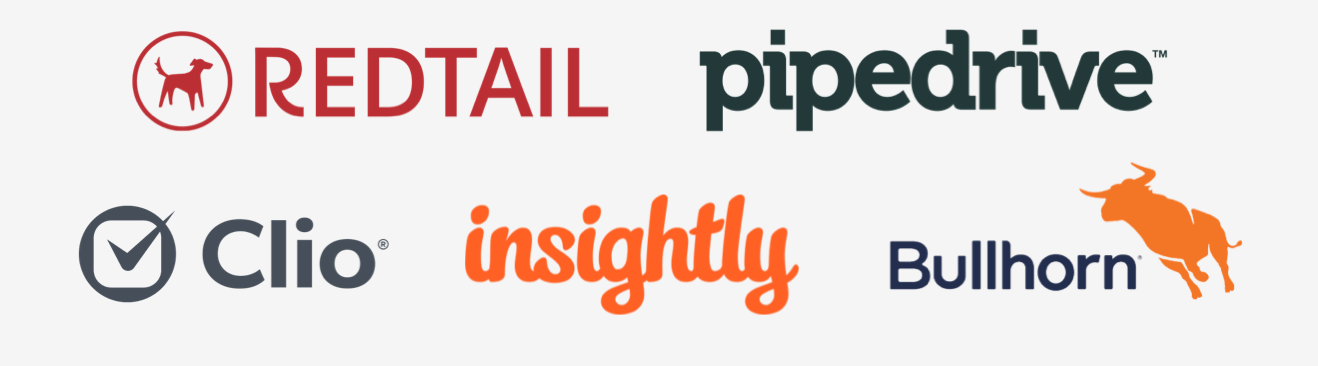
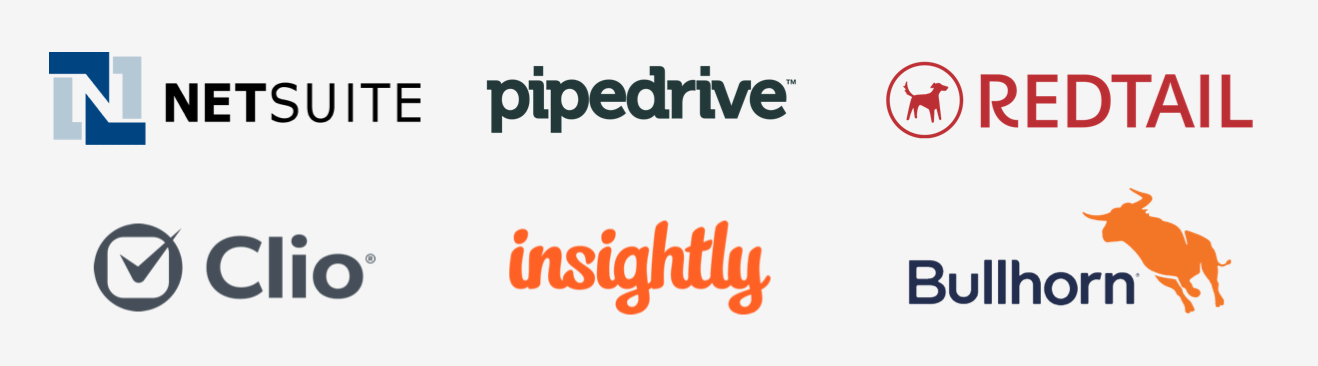
Updated and clarified docs

diff --git a/docs/extra.css b/docs/extra.css
@@ -1,3 +1,9 @@
+.crm-logo {
+    max-width: 200px;
+    max-height: 100px;
+    display: block;
+    margin-bottom: 15px;
+}
 .md-typeset a {
     color: #066fac
 }

diff --git a/docs/crm/clio.md b/docs/crm/clio.md
@@ -6,7 +6,7 @@ RingCentral's integration with Clio helps streamline communications with clients
 
 ## Install the extension
 
-If you have not already done so, begin by [installing the Unified CRM extension](./getting-started.md) from the Chrome web store. 
+If you have not already done so, begin by [installing the Unified CRM extension](../getting-started.md) from the Chrome web store. 
 
 <iframe width="825" height="464" src="https://www.youtube.com/embed/pQgdsAR1UCI?si=PaSTDhHkTUa9fMtk" title="Unified CRM extension for Clio - quick start" frameborder="0" allow="accelerometer; autoplay; clipboard-write; encrypted-media; gyroscope; picture-in-picture; web-share" allowfullscreen></iframe>
 
@@ -20,7 +20,7 @@ Once the extension has been installed, follow these steps to setup and configure
 
 3. Navigate to the Settings screen in the Unified CRM extension's CTI, and find the option labeled "clio."
 
-    ![Connect to Clio](img/clio-connect.png){ style="max-width: 200px" }
+    ![Connect to Clio](../img/clio-connect.png){ style="max-width: 200px" }
 
 4. Click the "Connect" button. 
 
@@ -34,7 +34,7 @@ And with that, you will be connected to Clio and ready to begin using the integr
 
 Clio's contact lookup method is very strict. As a result, if the phone numbers in Clio are not stored using the E.164 standard, e.g. `+1##########`, then the CRM extension will fail to find the contact record for call logging and call pop. 
 
-To address this, short of reformatting every phone number stored in Clio, is to go to [Phone number format setting](./users/settings.md#phone-number-formats) under `Contact setting` and setting the phone number formats to conform with the conventions used by your practice. 
+To address this, short of reformatting every phone number stored in Clio, is to go to [Phone number format setting](../users/settings.md#phone-number-formats) under `Contact setting` and setting the phone number formats to conform with the conventions used by your practice. 
 
 Navigate to the Unified CRM Chrome extension's advanced settings page and enter in the phone formats used by your practice. Define a format by using an asterix "*" in place of any number. Any other character used in the format string will be interpretted literally. 
 
@@ -69,7 +69,7 @@ We have found the following formats are commonly used among customers (feel free
 
 Select or enter up to three different formats used by your practice. When you are done, the advanced settings form may look something like this:
 
-![Advanced settings with format options](img/adv-settings-formats.png)
+![Advanced settings with format options](../img/adv-settings-formats.png)
 
 !!! tip "The E.164 format is used by default. You do not need to specify the format `1**********`."
 
@@ -84,6 +84,6 @@ Ideally, phone numbers in Clio would all be stored using the E.164 format standa
 
 !!! tip "Use Zapier to automatically format phone numbers"
     Zapier is a great automation tool that can help your organization [reformat phone numbers to E.164](https://zapier.com/apps/clio/integrations/formatter/1481647/format-numbers-for-new-clio-contacts-with-formatter-by-zapier) for all new contacts moving forward.
-    ![Clio number formatter Zap](img/clio-zapier.png)
+    ![Clio number formatter Zap](../img/clio-zapier.png)
 
 Finally, you can improve performance by going back to existing contacts and updating their phone numbers. This can be a laborious process, but will yield the best results in the long term. 

diff --git a/docs/crm/insightly.md b/docs/crm/insightly.md
@@ -6,7 +6,7 @@ RingCentral's integration with Insightly helps streamline communications between
 
 ## Install the extension
 
-If you have not already done so, begin by [installing the Unified CRM extension](./getting-started.md) from the Chrome web store. 
+If you have not already done so, begin by [installing the Unified CRM extension](../getting-started.md) from the Chrome web store. 
 
 <iframe width="825" height="464" src="https://www.youtube.com/embed/5hWvVI12UAc?si=IX1PjO__Njki_60i" title="Unified CRM extension for Insightly - quick start" frameborder="0" allow="accelerometer; autoplay; clipboard-write; encrypted-media; gyroscope; picture-in-picture; web-share" allowfullscreen></iframe>
 
@@ -20,7 +20,7 @@ Once the extension has been installed, follow these steps to setup and configure
 
 3. Navigate to the Settings screen in the Unified CRM extension's CTI, and find the option labeled "insightly."
 
-    ![Connect to Insightly](img/insightly-connect.png){ style="max-width: 200px" }
+    ![Connect to Insightly](../img/insightly-connect.png){ style="max-width: 200px" }
 
 4. Click the "Connect" button. 
 
@@ -28,12 +28,12 @@ Once the extension has been installed, follow these steps to setup and configure
     * API key
     * API URL
 
-    ![Connect to Insightly](img/insightly-setup.png){ style="max-width: 200px" }
+    ![Connect to Insightly](../img/insightly-setup.png){ style="max-width: 200px" }
 
 
 6. Click the "Get Key" button and the extension will attempt to retrieve these values for you. You may also enter these values manually. In Insightly, navigate to User Settings from the pull down menu in the upper-righthand corner. Scroll down until you see a section labeled "API." Copy and paste your API key and API URL into the corresponding fields. 
 
-    ![Insightly API credentials](img/insightly-apicreds.png){ style="max-width: 600px" }
+    ![Insightly API credentials](../img/insightly-apicreds.png){ style="max-width: 600px" }
 
 When you login successfully, the Chrome extension will automatically update to show you are connected to Insightly. If you are connected, the button next to Insightly will say, "logout".
 
@@ -43,6 +43,6 @@ And with that, you will be connected to Insightly and ready to begin using the i
 
 Insightly's contact lookup method is very strict. As a result, if the phone numbers in Insightly are not stored using the E.164 standard, e.g. `+1##########`, then the CRM extension will fail to find the contact record for call logging and call pop. 
 
-To address this, short of reformatting every phone number stored in Insightly, is to go our [Phone number format setting](./users/settings.md#phone-number-formats) under `Contact setting` and setting the phone number formats to conform with the conventions used by your company. 
+To address this, short of reformatting every phone number stored in Insightly, is to go our [Phone number format setting](../users/settings.md#phone-number-formats) under `Contact setting` and setting the phone number formats to conform with the conventions used by your company. 
 
 Making this change will improve your experience with the extension considerably. 

diff --git a/docs/crm/pipedrive.md b/docs/crm/pipedrive.md
@@ -6,7 +6,7 @@ RingCentral's integration with Pipedrive helps streamline communications between
 
 ## Install the extension
 
-If you have not already done so, begin by [installing the Unified CRM extension](./getting-started.md) from the Chrome web store. 
+If you have not already done so, begin by [installing the Unified CRM extension](../getting-started.md) from the Chrome web store. 
 
 <iframe width="825" height="464" src="https://www.youtube.com/embed/Hu0qC13HDkQ?si=XZLWUCalDRhF8ASP" title="Unified CRM extension for Insightly - quick start" frameborder="0" allow="accelerometer; autoplay; clipboard-write; encrypted-media; gyroscope; picture-in-picture; web-share" allowfullscreen></iframe>
 
@@ -20,7 +20,7 @@ Once the extension has been installed, follow these steps to setup and configure
 
 3. From the marketplace listing, initiate the authorization process by clicking the "Install Now" button.
 
-    ![Install Pipedrive ext](img/pipedrive-marketplace.png)
+    ![Install Pipedrive ext](../img/pipedrive-marketplace.png)
 
 3. On the authorization screen, scroll to the bottom and click "Allow and Install." The CRM extension should automatically come to the foreground and show that you are now connected to Pipedrive. 
 
@@ -32,6 +32,6 @@ And with that, you will be connected to Pipedrive and ready to begin using the i
 
 Pipedrive's system exhibits a relatively uncommon behavior that is the result of a perfectly normal function of the frameworks used by their engineers. However, this behavior is unfortunate because it causes the dialer to be removed from the page after it has loaded. You may see it appear briefly, and then POOF! It is gone. 
 
-To address this, go our [advanced settings](./users/settings.md#advanced-configuration-options) and set the config option called "Click-to-dial inject delay" to `2` or `3`. Depending upon network latencies, you may need to increase this number, but usually a value of `2` is sufficient. 
+To address this, go our [advanced settings](../users/settings.md#advanced-configuration-options) and set the config option called "Click-to-dial inject delay" to `2` or `3`. Depending upon network latencies, you may need to increase this number, but usually a value of `2` is sufficient. 
 
 

diff --git a/docs/crm/bullhorn.md b/docs/crm/bullhorn.md
@@ -6,7 +6,7 @@ RingCentral's integration with Bullhorn helps streamline communications with can
 
 ## Install the extension
 
-If you have not already done so, begin by [installing the Unified CRM extension](./getting-started.md) from the Chrome web store. 
+If you have not already done so, begin by [installing the Unified CRM extension](../getting-started.md) from the Chrome web store. 
 
 <iframe width="825" height="464" src="https://www.youtube.com/embed/afbdQD0y4Yo?si=UKcBw2BP4pj2adNc" title="Unified CRM extension for Bullhorn - quick start" frameborder="0" allow="accelerometer; autoplay; clipboard-write; encrypted-media; gyroscope; picture-in-picture; web-share" allowfullscreen></iframe>
 
@@ -20,7 +20,7 @@ Once the extension has been installed, follow these steps to setup and configure
 
 3. Navigate to the Settings screen in the Unified CRM extension's CTI, and find the option labeled "bullhorn."
 
-    ![Connect to Bullhorn](img/bullhorn-connect.png){ style="max-width: 200px" }
+    ![Connect to Bullhorn](../img/bullhorn-connect.png){ style="max-width: 200px" }
 
 4. Click the "Connect" button. 
 
@@ -34,13 +34,13 @@ And with that, you will be connected to Bullhorn and ready to begin using the in
 
 In Settings, there's a "Bullhorn Default Note Action" entry button.
 
-![Bullhorn default Note Action](img/bullhorn-default-note-action-entry.png)
+![Bullhorn default Note Action](../img/bullhorn-default-note-action-entry.png)
 
 We provide 3 most common cases here. Once you input the same Note Action string inside the field, the extension will try to find the assigned Note Action and select that for you on the log form page.
 
 There's also a "Apply to auto log" toggle to turn on this defaulting mechanism for auto log so that the extension won't generate unresolved items due to conflicts over multiple Note Actions. 
 
-![Bullhorn default Note Action page](img/bullhorn-default-note-action-page.png)
+![Bullhorn default Note Action page](../img/bullhorn-default-note-action-page.png)
 
 ## Placeholder companies when creating contacts
 

diff --git a/docs/index.md b/docs/index.md
@@ -2,9 +2,9 @@
 hide:
   - navigation
 ---
-# Unified CRM extension for Google Chrome and Microsoft Edge
+# Unified CRM extension for RingEX
 
-RingCentral's Unified CRM extension for Google Chrome and Microsoft Edge is a browser plugin that helps connect your RingCentral account to a number of different CRM services. It embeds a fully functional web phone into your CRM and supports key user flows unique to CRMs to better track calls and engage with customers.
+RingCentral's Unified CRM extension for RingEX is a browser extension for Google Chrome and Microsoft Edge that helps connect your RingCentral RingEX account to a number of different CRM services. It embeds a fully functional web phone into your CRM and supports key user flows unique to CRMs to better track calls and engage with customers.
 
 <figure markdown>
   ![Unified CRM extension](img/intro.png)
@@ -28,18 +28,19 @@ RingCentral's Unified CRM extension for Google Chrome and Microsoft Edge is a br
 
 The Unified CRM extension requires the following:
 
+* RingEX account
 * Google Chrome or Microsoft Edge
 
 ## Supported CRMs
 
 RingCentral currently supports the following CRMs using the Unified CRM extension:
 
-* [Bullhorn](./bullhorn.md)
-* [Clio](./clio.md)
-* [Insightly](./insightly.md)
-* [Pipedrive](./pipedrive.md)
-* [Redtail CRM](./redtail.md)
-* [NetSuite](./netsuite.md)
+* [Bullhorn](./crm/bullhorn.md)
+* [Clio](./crm/clio.md)
+* [Insightly](./crm/insightly.md)
+* [Pipedrive](./crm/pipedrive.md)
+* [Redtail CRM](./crm/redtail.md)
+* [NetSuite](./crm/netsuite.md)
 
 Don't see your CRM listed above? Visit our [Ideas portal](https://ideas.ringcetral.com/) to tell us more about the CRM you would like us to integrate with. 
 

diff --git a/docs/crm/index.md b/docs/crm/index.md
@@ -1,0 +1,26 @@
+# CRMs supported by the Unified CRM extension
+
+RingCentral's Unified CRM extension for RingEX provides support for a number of different CRMs including the list below. It is also a [developer framework](../developers/index.md) that allows companies to quickly and easily build integrations with more niche or proprietary CRMs at a fraction of the cost. 
+
+## Supported CRMs
+
+<div class="grid cards" markdown>
+
+-    ![Bullhorn Logo](../img/bullhorn-logo.png){.crm-logo}
+     [Bullhorn](bullhorn.md)
+-    ![Clio Logo](../img/clio-logo.png){.crm-logo} 
+     [Clio](clio.md)
+-    ![Insightly Logo](../img/insightly-logo.png){.crm-logo} 
+     [Insightly](insightly.md)
+-    ![Pipedrive Logo](../img/pipedrive-logo.png){.crm-logo} 
+     [Pipedrive](pipedrive.md)
+-    ![Redtail Logo](../img/redtail-logo.png){.crm-logo} 
+     [Redtail CRM](redtail.md)
+-    ![NetSuite Logo](../img/netsuite-logo.png){.crm-logo} 
+     [NetSuite](netsuite.md)
+
+</div>
+
+## Don't see your CRM listed?
+
+If you don't see your CRM listed, contact us via our [community](https://community.ringcentral.com) and we can help get you in touch with qualified vendors or RingCentral Professional Services whom can help you build a solution that fits your needs.

diff --git a/docs/crm/redtail.md b/docs/crm/redtail.md
@@ -6,7 +6,7 @@ RingCentral's integration with Redtail CRM helps streamline communications betwe
 
 ## Install the extension
 
-If you have not already done so, begin by [installing the Unified CRM extension](./getting-started.md) from the Chrome web store. 
+If you have not already done so, begin by [installing the Unified CRM extension](../getting-started.md) from the Chrome web store. 
 
 <iframe width="825" height="464" src="https://www.youtube.com/embed/1pbpbEvp5uQ?si=BUmLcaKk5att_XQf" title="Unified CRM extension for Redtail CRM - quick start" frameborder="0" allow="accelerometer; autoplay; clipboard-write; encrypted-media; gyroscope; picture-in-picture; web-share" allowfullscreen></iframe>
 
@@ -20,7 +20,7 @@ Once the extension has been installed, follow these steps to setup and configure
 
 3. Navigate to the Settings screen in the Unified CRM extension's CTI, and find the option labeled "redtail."
 
-    ![Connect to Redtail](img/redtail-connect.png){ style="max-width: 200px" }
+    ![Connect to Redtail](../img/redtail-connect.png){ style="max-width: 200px" }
 
 4. Click the "Connect" button. 
 

diff --git a/docs/crm/netsuite.md b/docs/crm/netsuite.md
@@ -54,7 +54,7 @@ For this extension to work, your NetSuite account admin needs to assign users wi
 
 ## Install the Chrome/Edge extension
 
-If you have not already done so, begin by [installing the Unified CRM extension](./getting-started.md) from the Chrome web store. 
+If you have not already done so, begin by [installing the Unified CRM extension](../getting-started.md) from the Chrome web store. 
 
 <iframe width="825" height="464" src="https://www.youtube.com/embed/yo4Q1Vj-sH4" title="Unified CRM extension for NetSuite - quick start" frameborder="0" allow="accelerometer; autoplay; clipboard-write; encrypted-media; gyroscope; picture-in-picture; web-share" allowfullscreen></iframe>
 
@@ -68,7 +68,7 @@ Once the extension has been installed, follow these steps to setup and configure
 
 3. Navigate to the Settings screen in the Unified CRM extension's CTI, and find the option labeled "netsuite".
 
-    ![Connect to NetSuite](img/netsuite-connect.png){ style="max-width: 200px" }
+    ![Connect to NetSuite](../img/netsuite-connect.png){ style="max-width: 200px" }
 
 4. Click the "Connect" button. 
 

diff --git a/docs/getting-started.md b/docs/getting-started.md
@@ -43,11 +43,11 @@ The process of connecting the Unified CRM extension to your CRM is more or less 
 
 Each CRM may have a slightly different approach in order to install the extension fully. Consult the CRM-specific documentation to setup and configure your CRM below.
 
-* [Connect and setup Bullhorn](./bullhorn.md)
-* [Connect and setup Clio](./clio.md)
-* [Connect and setup Insightly](./insightly.md)
-* [Connect and setup Pipedrive](./pipedrive.md)
-* [Connect and setup Redtail CRM](./redtail.md)
-* [Connect and setup NetSuite](./netsuite.md)
+* [Connect and setup Bullhorn](./crm/bullhorn.md)
+* [Connect and setup Clio](./crm/clio.md)
+* [Connect and setup Insightly](./crm/insightly.md)
+* [Connect and setup Pipedrive](./crm/pipedrive.md)
+* [Connect and setup Redtail CRM](./crm/redtail.md)
+* [Connect and setup NetSuite](./crm/netsuite.md)
 
 
